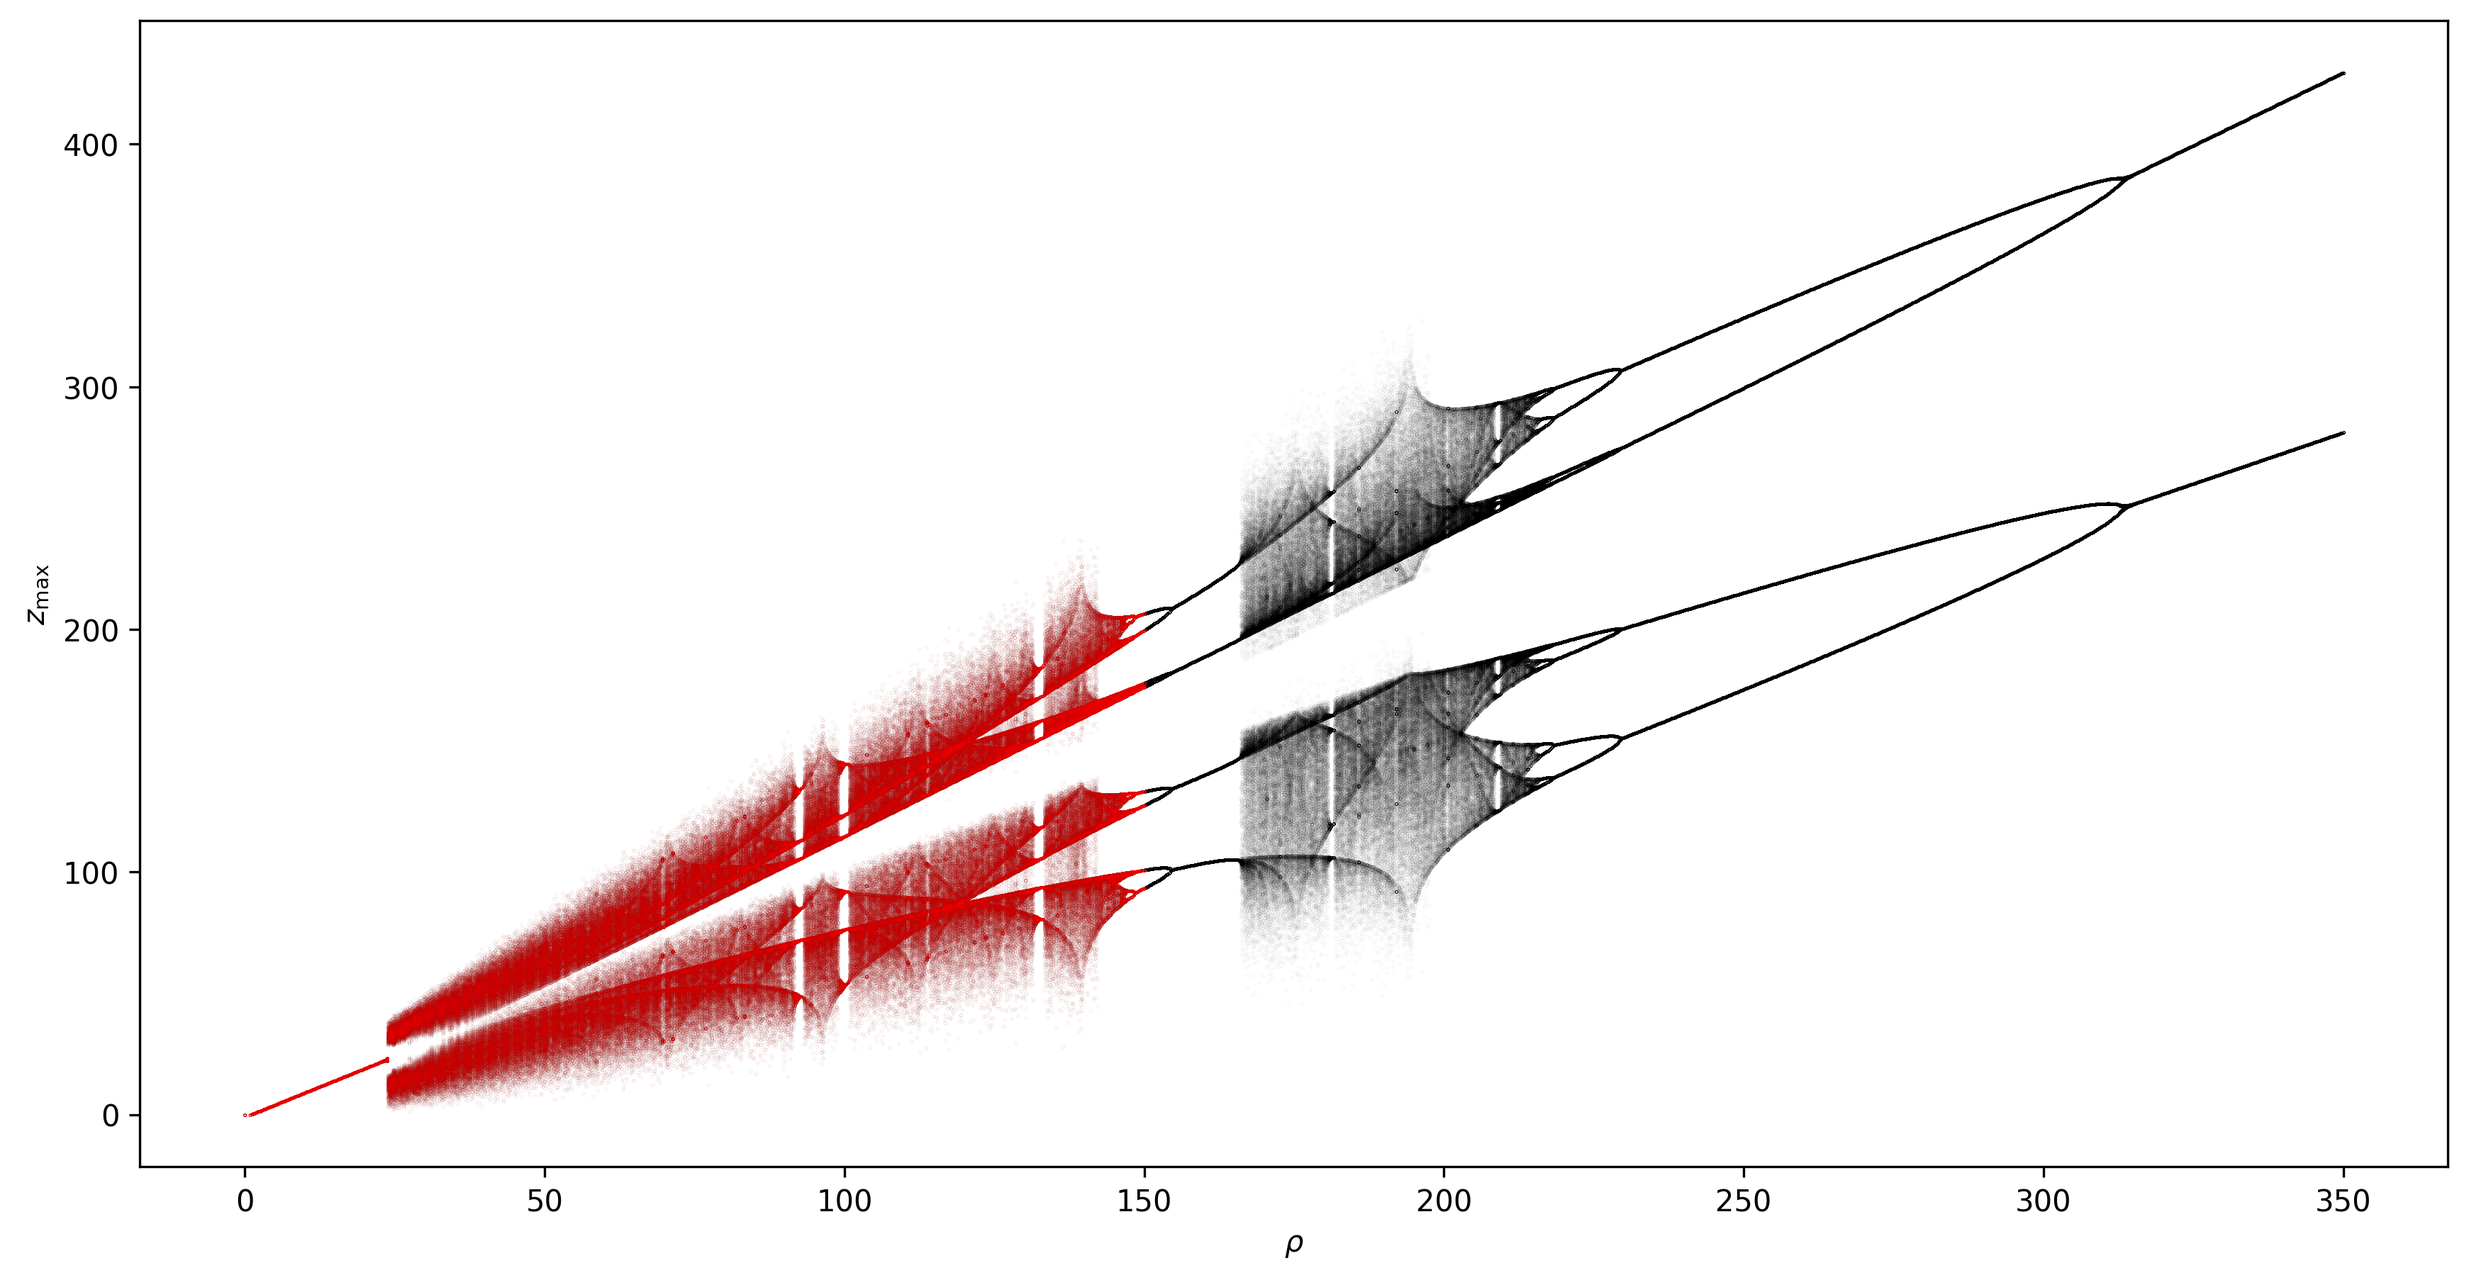
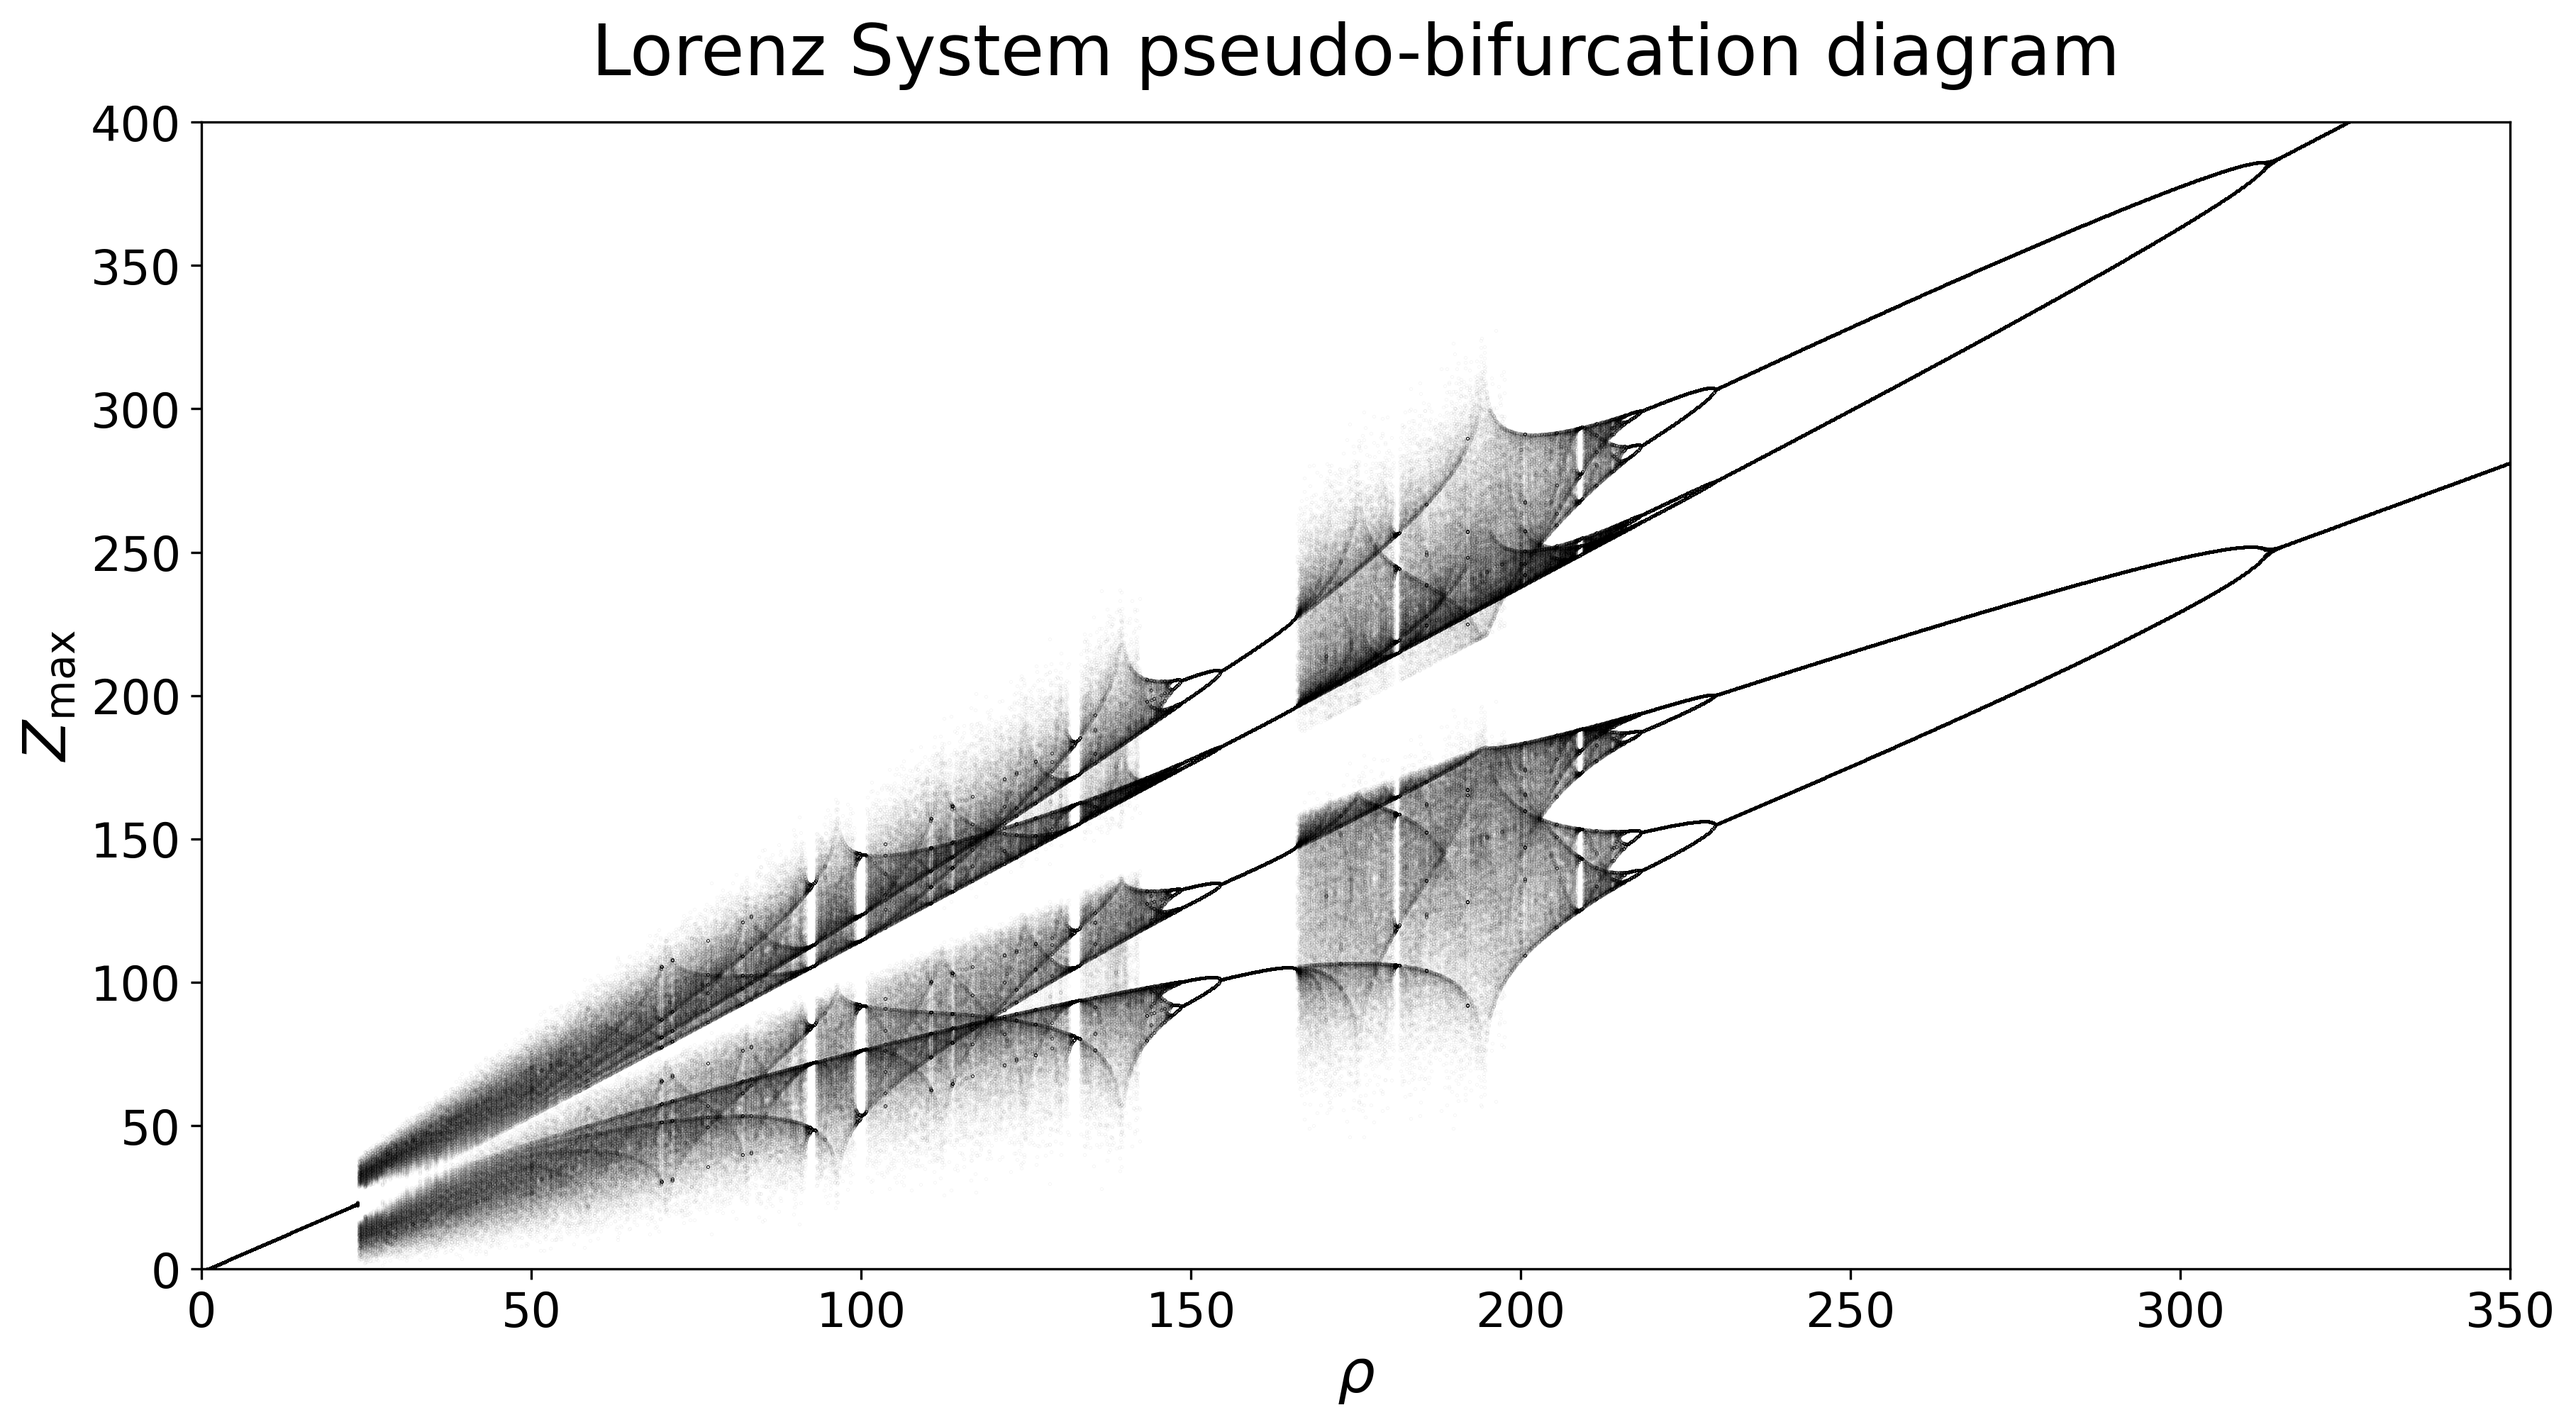
Enhance the vizualisation of animated trajectories, try to get rid of the "gresillement", to continue...

diff --git a/script/functions/lorenz.py b/script/functions/lorenz.py
@@ -2,6 +2,7 @@ import numpy as np
 import matplotlib.pyplot as plt
 from scipy.integrate import solve_ivp
 from matplotlib.animation import FuncAnimation
+import seaborn as sns
 
 def lorenz(t, state, sigma=10.0, rho=28.0, beta=8/3):
     x, y, z = state
@@ -233,6 +234,7 @@ def animate_lorenz_rho_comparison(
      subplot_kw={"projection": "3d"},
      squeeze=False,
     )
+    fig.patch.set_facecolor("black")
 
 # Conversion de la grille d'axes en une liste
     axes = axes_grid.ravel()
@@ -281,10 +283,11 @@ def animate_lorenz_rho_comparison(
         for rho_solutions in solutions
     ]
 
-    colors = plt.cm.viridis(
-        np.linspace(0, 1, len(initial_states))
-    )
+    
+    colors = sns.color_palette(
+     "husl", n_colors=len(initial_states))
 
+    
     # Contiendra les courbes et les points de chaque axe
     trajectories = []
     points = []
@@ -321,23 +324,45 @@ def animate_lorenz_rho_comparison(
         all_z.min() - z_margin,
         all_z.max() + z_margin,
      )
-
-     ax.set_xlabel("x")
-     ax.set_ylabel("y")
-     ax.set_zlabel("z")
-     ax.set_title(rf"$\rho = {rho:g}$")
+     ax.text2D(
+         0.5,
+         -0.08,
+         rf"$\rho = {rho:g}$",
+         transform=ax.transAxes,
+         color="white",
+         ha="center",
+         fontsize=14,
+     )
 
      rho_trajectories = []
      rho_points = []
 
      for index, color in enumerate(colors):
+        if interval is None:
+            x, y, z = rho_solutions[index]
+            ax.plot(
+                x,
+                y,
+                z,
+                color=color,
+                linewidth=0.3,
+                label=(
+                    rf"$\vec{{r}}_0 = ({initial_states[index, 0]:g}, "
+                    f"{initial_states[index, 1]:g}, {initial_states[index, 2]:g})$"
+                ),
+            )
+            continue
+
         trajectory, = ax.plot(
             [],
             [],
             [],
             color=color,
-            linewidth=0.8,
-            label=f"CI {index + 1}",
+            linewidth=0.3,
+                        label=
+                                rf"$\vec{{r}}_0 = ({initial_states[index, 0]:g}, "
+                                f"{initial_states[index, 1]:g}, {initial_states[index, 2]:g})$"
+                        ,
           )
 
         point, = ax.plot(
@@ -355,14 +380,40 @@ def animate_lorenz_rho_comparison(
      trajectories.append(rho_trajectories)
      points.append(rho_points)
 
+    for ax in axes:
+      ax.set_facecolor("black"); ax.tick_params(length=0, labelsize=0)
+      ax.set_xlabel("")
+      ax.set_ylabel("")
+      ax.set_zlabel("")
+      ax.grid(True)
+      for axis in (ax.xaxis, ax.yaxis, ax.zaxis):
+       axis._axinfo["grid"].update(
+           color=(1.0, 1.0, 1.0, 0.18),
+           linewidth=0.7,
+       )
+       axis.pane.set_facecolor((0.0, 0.0, 0.0, 1.0))
+       axis.pane.set_edgecolor((0.0, 0.0, 0.0, 0.0))
+      ax.title.set_color("white")
+
     #  trajectories.append(rho_trajectories)
     #  points.append(rho_points)
     # Une seule légende suffit puisque les conditions initiales sont identiques
-    axes[0].legend()
+    axes[0].legend(facecolor="black", edgecolor="white", labelcolor="white")
 
-    time_text = fig.suptitle(
-    f"Système de Lorenz — t = {t_display[0]:.2f}"
+    title = (
+        f"Système de Lorenz — t : {t_transient:g} à {t_span[1]:g}"
+        if interval is None
+        else f"Système de Lorenz — t = {t_display[0]:.2f}"
     )
+    time_text = fig.suptitle(
+    title,
+    color="white",
+    )
+
+    if interval is None:
+        fig.canvas.manager.full_screen_toggle()
+        plt.show()
+        return fig, None
 
     def update(frame):
         artists = []
@@ -407,7 +458,8 @@ def animate_lorenz_rho_comparison(
         blit=False,
     )
 
-    fig.tight_layout()
+    fig.canvas.manager.full_screen_toggle()
+    # fig.tight_layout()
     plt.show()
 
     return fig, animation

diff --git a/script/main.py b/script/main.py
@@ -8,73 +8,42 @@ from functions.lorenz import plot_lorenz_trajectories
 from mpl_toolkits.mplot3d import axes3d
 from matplotlib.animation import FuncAnimation
 from functions.lorenz import animate_lorenz_rho_comparison
- 
+import seaborn as sns
 
 
-# sigma = 10
-# rho = 10
-# beta = 8 / 3
-# t_init=0
-# t_final=100
-# sample_points=5000 
-# t_eval = np.linspace(t_init, t_final, sample_points)
-
-
-# initial_state=[1, 1, 1]  
 initial_states = [[1.,1,1],[-1, -1, 1],[5,6,8],[-4,-5,7]]
 
 
 
+t_init = 0
+t_final = 80
+t_step = 1/1000
+t_transient = 40
 
 
-# evolution, time  = evolve_lorenz(
-#     initial_state=initial_state,
-#     t_span=(t_init, t_final),
-#     t_eval=t_eval,
-#     args=(sigma, rho, beta)
-# )
-
-# solution=solve_ivp(
-#     lorenz,
-#     t_span=(t_init, t_final),
-#     y0=initial_state,
-#     t_eval=t_eval,
-#     args=(sigma, rho, beta)
-# )
-
-
-
-# fig= plt.figure(figsize=(10, 7))
-# ax = fig.add_subplot(111, projection='3d')
-
-# plt.title("Lorenz Attractor")
-
-# plot_lorenz_trajectories(
-#     fig=fig,
-#     ax=ax,
-#     initial_states=initial_states,
-#     t_span=(t_init, t_final),
-#     t_eval=t_eval,
-#     interval=0.0000001,
-#     args=(10.0, 5, 8/3)
-# )
-
-
-
-
-t_span = (0, 140)
-t_eval = np.linspace(*t_span, 1000000)
+t_span = (0, 80)
+t_eval = np.linspace(*t_span, int((t_span[1] - t_span[0]) / t_step) + 1)
 
 rho_values = [0.5, 20, 50, 100.35, 120, 133 ,140, 160, 175 ,200, 220, 360]
+
+
+
 
 fig, animation = animate_lorenz_rho_comparison(
     initial_states=initial_states,
     rho_values=rho_values,
     t_span=t_span,
     t_eval=t_eval,
-    interval=None,
-    frame_step=5000,
-    t_transient=100
+    # interval=None,
+    interval=10**(-6),
+    frame_step=100,
+    t_transient=t_transient,
 )
 
 
+
+##### TO DO :  
+   # 1. Add a function to save the animation as a video file (e.g., MP4 or GIF).        
+   # 2. Add an instance for plotting without animation
+   # 3. Add function for finding n-periodic orbit
+   # 4. Add a function to compute Lyapunov exponents

diff --git a/script/main_bifrucation.py b/script/main_bifrucation.py
@@ -58,13 +58,16 @@ rho_values = [0,50,100,150,200,250,300,350,400]
 ### LOADING AND PLOTTING ###
 
 plt.figure(figsize=(14, 7))
+plt.rcParams.update({"font.size": 16})
+plt.tick_params(axis="both", labelsize=16)
+plt.title("Lorenz System pseudo-bifurcation diagram", fontsize=24, pad=16)
 
 for rho in rho_values[:-2]:
  
  data = np.loadtxt(
     f"data_bifurcation/upper_branch/lorenz_bifurcation_{rho}_{rho + 50}.csv",
     delimiter=",",
-    skiprows=1,
+    skiprows=1,   
  )
 
  rho_plot = data[:, 0]
@@ -72,18 +75,21 @@ for rho in rho_values[:-2]:
 
  plt.scatter(rho_plot, z_plot, s=0.0001, color="black")
 
- plt.xlabel(r"$\rho$")
- plt.ylabel(r"$z_{\max}$")
+ plt.xlabel(r"$\rho$", fontsize=20)
+ plt.ylabel(r"$Z_{\max}$", fontsize=20)
 
-# plt.show()
+plt.xlim(0, 350)
+plt.ylim(0, 400)
 
+plt.savefig("bifurcation_diagram.png", dpi=300, bbox_inches='tight')
 
+plt.show()
 
 
 ###### SECOND BRANCH #######
 
 # initial_states = [-1.,-1,1]
-
+ 
 # ## COMPUTING ###
 
 # for rho in rho_values:
@@ -119,25 +125,25 @@ for rho in rho_values[:-2]:
 
 # plt.figure(figsize=(14, 7))
 
-for rho in rho_values[:-6]:
+# for rho in rho_values[:-6]:
  
- data = np.loadtxt(
-    f"data_bifurcation/lower_branch/lorenz_bifurcation_{rho}_{rho + 50}.csv",
-    delimiter=",",
-    skiprows=1,
- )
+#  data = np.loadtxt(
+#     f"data_bifurcation/lower_branch/lorenz_bifurcation_{rho}_{rho + 50}.csv",
+#     delimiter=",",
+#     skiprows=1,
+#  )
 
- rho_plot = data[:, 0]
- z_plot = data[:, 1]
+#  rho_plot = data[:, 0]
+#  z_plot = data[:, 1]
 
- plt.scatter(rho_plot, z_plot, s=0.0001, color="red")
+#  plt.scatter(rho_plot, z_plot, s=0.0001, color="red")
 
- plt.xlabel(r"$\rho$")
- plt.ylabel(r"$z_{\max}$")
+#  plt.xlabel(r"$\rho$", fontsize=20)
+#  plt.ylabel(r"$z_{\max}$", fontsize=20)
 
-plt.savefig("bifurcation_diagram.png", dpi=300, bbox_inches='tight')
+# plt.savefig("bifurcation_diagram.png", dpi=300, bbox_inches='tight')
 
-plt.show()
+# plt.show()
 
 
 
